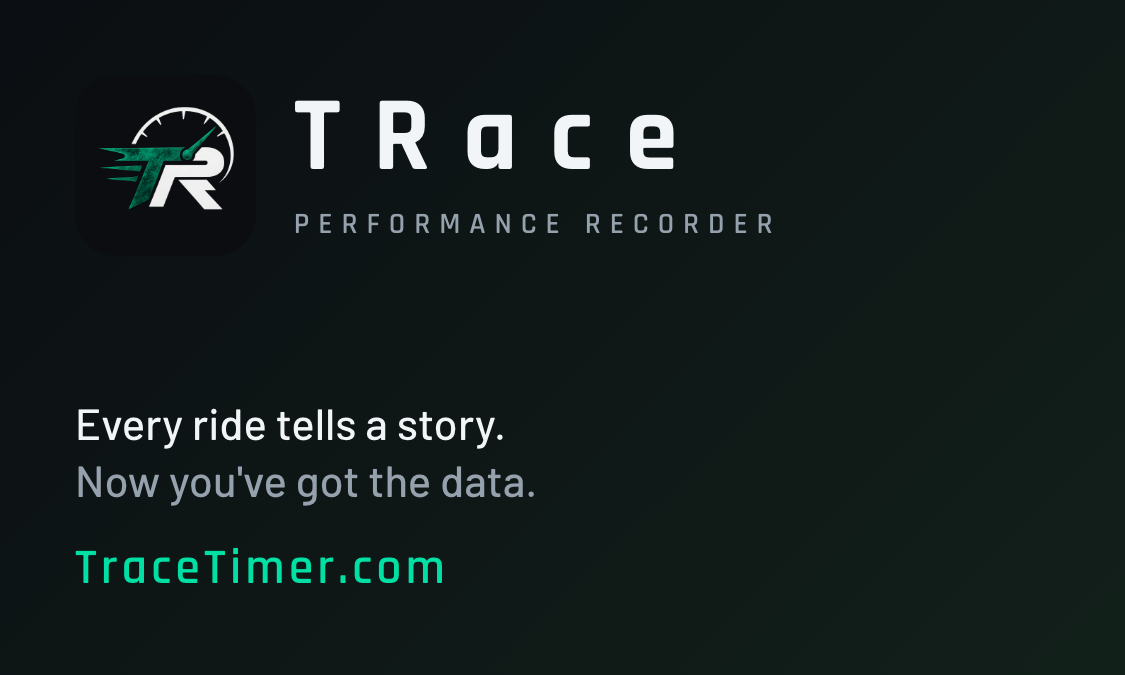
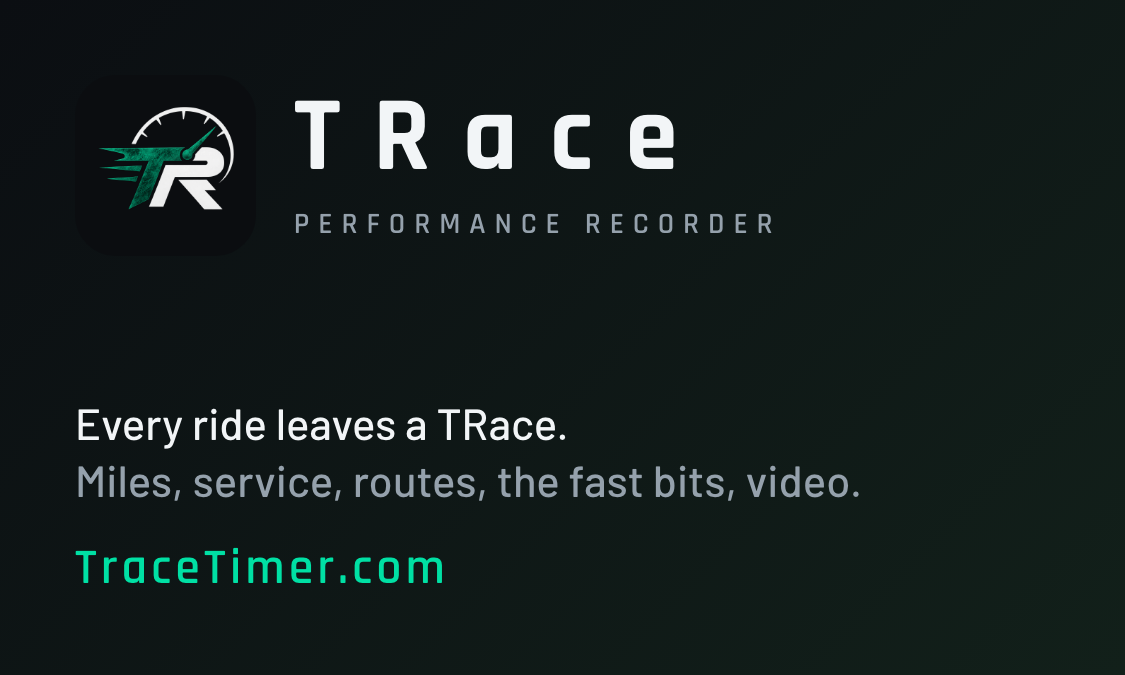
The line: Every ride leaves a TRace

Changed region(s): [[0.0622, 0.6844, 0.7778, 0.7467], [0.2489, 0.5911, 0.4978, 0.6533]]

diff --git a/index.html b/index.html
@@ -4,7 +4,7 @@
 <meta charset="utf-8">
 <meta name="viewport" content="width=device-width, initial-scale=1">
 <title>TRace Timer</title>
-<meta name="description" content="Every ride tells a story. Now you've got the data. TRace turns your phone into a performance recorder for motorcycles and cars: 0–60, quarter mile, laps, top speed, G — and video with the numbers burned in. Nothing leaves your phone.">
+<meta name="description" content="Every ride leaves a TRace. TRace turns your phone into a performance recorder for motorcycles and cars: 0–60, quarter mile, laps, top speed, G — and video with the numbers burned in. Nothing leaves your phone.">
 <meta property="og:title" content="TRace Timer">
 <meta property="og:description" content="Your 0–60, timed. Your run, on film. A performance recorder for motorcycles and cars, measured against a 25 Hz racing GPS.">
 <meta property="og:image" content="https://tracetimer.com/img/icon-512.png">
@@ -186,7 +186,7 @@ footer a { color: var(--muted); }
   <div class="copy">
     <span class="eyebrow">Performance recorder for motorcycles and cars</span>
     <h1>Your 0–60, timed.<br>Your run, on film.</h1>
-    <p class="lead"><b>Every ride tells a story. Now you've got the data.</b> TRace turns the phone already in your pocket into a performance recorder: standing and rolling times, the quarter mile, laps, top speed, G — and video with the numbers burned into the picture. Nothing leaves your phone.</p>
+    <p class="lead"><b>Every ride leaves a TRace.</b> It turns the phone already in your pocket into a performance recorder: standing and rolling times, the quarter mile, laps, top speed, G — and video with the numbers burned into the picture. Nothing leaves your phone.</p>
     <div class="cta">
       <a class="btn" href="#beta">Join the beta</a>
       <a class="btn ghost" href="#measured">How it measures</a>

diff --git a/brand/card/front.html b/brand/card/front.html
@@ -20,7 +20,7 @@ html, body { margin:0; width:360px; height:216px; overflow:hidden; background:#0
     </div>
   </div>
   <div>
-    <div style="font-size:14px;font-weight:500;line-height:1.3">Every ride tells a story.<br><span class="mut">Now you've got the data.</span></div>
+    <div style="font-size:14px;font-weight:500;line-height:1.3">Every ride leaves a TRace.<br><span class="mut">Miles, service, routes, the fast bits, video.</span></div>
     <div class="url" style="font-size:16px;margin-top:9px">TraceTimer.com</div>
   </div>
 </div></div></body></html>
